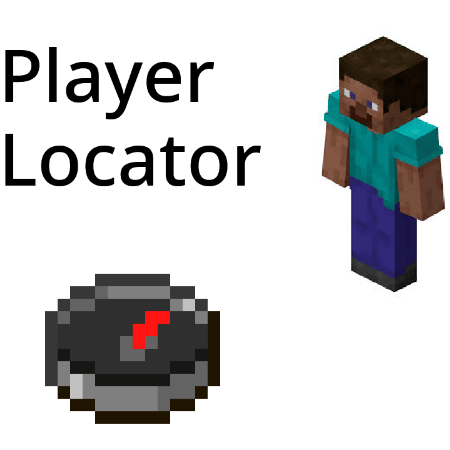
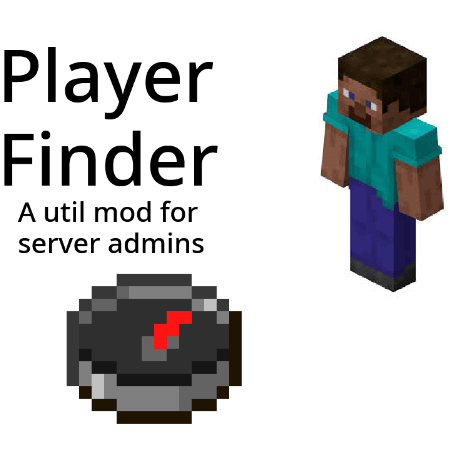
Mod rename to "Modern Player Finder" (player finder and locator were taken)

diff --git a/neoforge/src/main/java/dev/wolfieboy09/modernplayerfinder/neoforge/ModernPlayerFinderNeoForge.java b/neoforge/src/main/java/dev/wolfieboy09/modernplayerfinder/neoforge/ModernPlayerFinderNeoForge.java
@@ -1,0 +1,21 @@
+package dev.wolfieboy09.modernplayerfinder.neoforge;
+
+import dev.wolfieboy09.modernplayerfinder.Platform;
+import dev.wolfieboy09.modernplayerfinder.ModernPlayerFinder;
+import dev.wolfieboy09.modernplayerfinder.commands.FindPlayerCommand;
+import net.neoforged.fml.common.Mod;
+import net.neoforged.neoforge.common.NeoForge;
+import net.neoforged.neoforge.event.RegisterCommandsEvent;
+import org.jetbrains.annotations.NotNull;
+
+@Mod(ModernPlayerFinder.MOD_ID)
+public final class ModernPlayerFinderNeoForge {
+    public ModernPlayerFinderNeoForge() {
+        ModernPlayerFinder.init(Platform.NEOFORGE);
+        NeoForge.EVENT_BUS.addListener(this::commandEvent);
+    }
+
+    public void commandEvent(@NotNull RegisterCommandsEvent event) {
+        FindPlayerCommand.createCommand(event.getDispatcher());
+    }
+}

diff --git a/fabric/src/main/java/dev/wolfieboy09/modernplayerfinder/fabric/ModernPlayerFinderFabric.java b/fabric/src/main/java/dev/wolfieboy09/modernplayerfinder/fabric/ModernPlayerFinderFabric.java
@@ -1,0 +1,15 @@
+package dev.wolfieboy09.modernplayerfinder.fabric;
+
+import dev.wolfieboy09.modernplayerfinder.Platform;
+import dev.wolfieboy09.modernplayerfinder.ModernPlayerFinder;
+import dev.wolfieboy09.modernplayerfinder.commands.FindPlayerCommand;
+import net.fabricmc.api.ModInitializer;
+import net.fabricmc.fabric.api.command.v2.CommandRegistrationCallback;
+
+public final class ModernPlayerFinderFabric implements ModInitializer {
+    @Override
+    public void onInitialize() {
+        ModernPlayerFinder.init(Platform.FABRIC);
+        CommandRegistrationCallback.EVENT.register((dispatcher, registryAccess, environment) -> FindPlayerCommand.createCommand(dispatcher));
+    }
+}

diff --git a/common/src/main/java/dev/wolfieboy09/modernplayerfinder/ModernPlayerFinder.java b/common/src/main/java/dev/wolfieboy09/modernplayerfinder/ModernPlayerFinder.java
@@ -1,15 +1,15 @@
-package dev.wolfieboy09.playerlocator;
+package dev.wolfieboy09.modernplayerfinder;
 
 
 import com.mojang.logging.LogUtils;
 import org.jetbrains.annotations.NotNull;
 import org.slf4j.Logger;
 
-public final class PlayerLocator {
-    public static final String MOD_ID = "playerlocator";
+public final class ModernPlayerFinder {
+    public static final String MOD_ID = "modernplayerfinder";
     private static final Logger LOGGER = LogUtils.getLogger();
 
     public static void init(@NotNull Platform platform) {
-        LOGGER.info("[PlayerLocator] Launching on {}", platform);
+        LOGGER.info("[ModernPlayerFinder] Launching on {}", platform);
     }
 }

diff --git a/common/src/main/java/dev/wolfieboy09/modernplayerfinder/commands/FindPlayerCommand.java b/common/src/main/java/dev/wolfieboy09/modernplayerfinder/commands/FindPlayerCommand.java
@@ -1,4 +1,4 @@
-package dev.wolfieboy09.playerlocator.commands;
+package dev.wolfieboy09.modernplayerfinder.commands;
 
 import com.mojang.brigadier.CommandDispatcher;
 import com.mojang.brigadier.tree.LiteralCommandNode;

diff --git a/common/src/main/java/dev/wolfieboy09/modernplayerfinder/Platform.java b/common/src/main/java/dev/wolfieboy09/modernplayerfinder/Platform.java
@@ -1,4 +1,4 @@
-package dev.wolfieboy09.playerlocator;
+package dev.wolfieboy09.modernplayerfinder;
 
 public enum Platform {
     NEOFORGE("NEOFORGE"),
